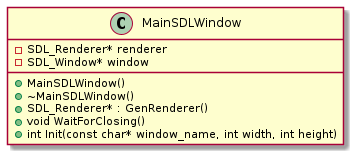
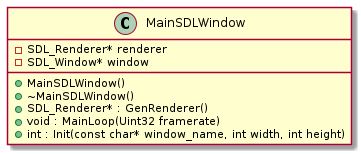
déplacement carré et framerate

Changed region(s): [[0.0, 0.0519, 0.9972, 0.9351], [0.3116, 0.0779, 0.6856, 0.2338]]

diff --git a/exercice1.cpp b/exercice1.cpp
@@ -11,13 +11,44 @@ MainSDLWindow::~MainSDLWindow(void){
     SDL_Quit();
 }
 
-void MainSDLWindow::WaitForClosing(){
+void MainSDLWindow::MainLoop(Uint32 framerate){
     SDL_Event event;
+    SDL_Renderer* renderer = this->GetRenderer();
+    SDL_Rect snake_head = {300, 300, 50, 50}; 
     while (true){
+        Uint32 frame_time_start = SDL_GetTicks();
+
+
+        SDL_SetRenderDrawColor(renderer, 0, 0, 0, 0);
+        SDL_RenderClear(renderer);
+        
         while (SDL_PollEvent(&event)){
             if (event.type == SDL_WINDOWEVENT && event.window.event == SDL_WINDOWEVENT_CLOSE)
                 return;
-        }   
+            if (event.type == SDL_KEYDOWN){
+                if (event.key.keysym.scancode == SDL_SCANCODE_DOWN){
+                    snake_head.y += 20; 
+                }
+                if (event.key.keysym.scancode == SDL_SCANCODE_UP){
+                    snake_head.y -= 20; 
+                }
+                if (event.key.keysym.scancode == SDL_SCANCODE_RIGHT){
+                    snake_head.x += 20; 
+                }
+                if (event.key.keysym.scancode == SDL_SCANCODE_LEFT){
+                    snake_head.x -= 20; 
+                }
+            }
+        }
+
+        SDL_SetRenderDrawColor(renderer, 255, 255, 255, 255);
+        SDL_RenderDrawRect(renderer, &snake_head);
+        SDL_RenderPresent(renderer);
+        
+        Uint32 time_since_frame_start = SDL_GetTicks() - frame_time_start;
+        if (time_since_frame_start < framerate){
+            SDL_Delay(framerate - time_since_frame_start);
+        }
     }
     
 }
@@ -52,9 +83,10 @@ SDL_Renderer* MainSDLWindow::GetRenderer(void){
 }
 
 int main(void){
-    
+    Uint32 frame_rate = 20;
 
     MainSDLWindow main_window;
-    main_window.Init("test", 600, 600);
-    main_window.WaitForClosing();
+    main_window.Init("Snake", 600, 600);
+    main_window.MainLoop(frame_rate);
+    return 0;
 }

diff --git a/exercice1.hpp b/exercice1.hpp
@@ -8,7 +8,7 @@ class MainSDLWindow{
 
         int Init(const char* window_name, int width, int height);
 
-        void WaitForClosing();
+        void MainLoop(Uint32 framerate);
 
         SDL_Renderer* GetRenderer(void);
 
